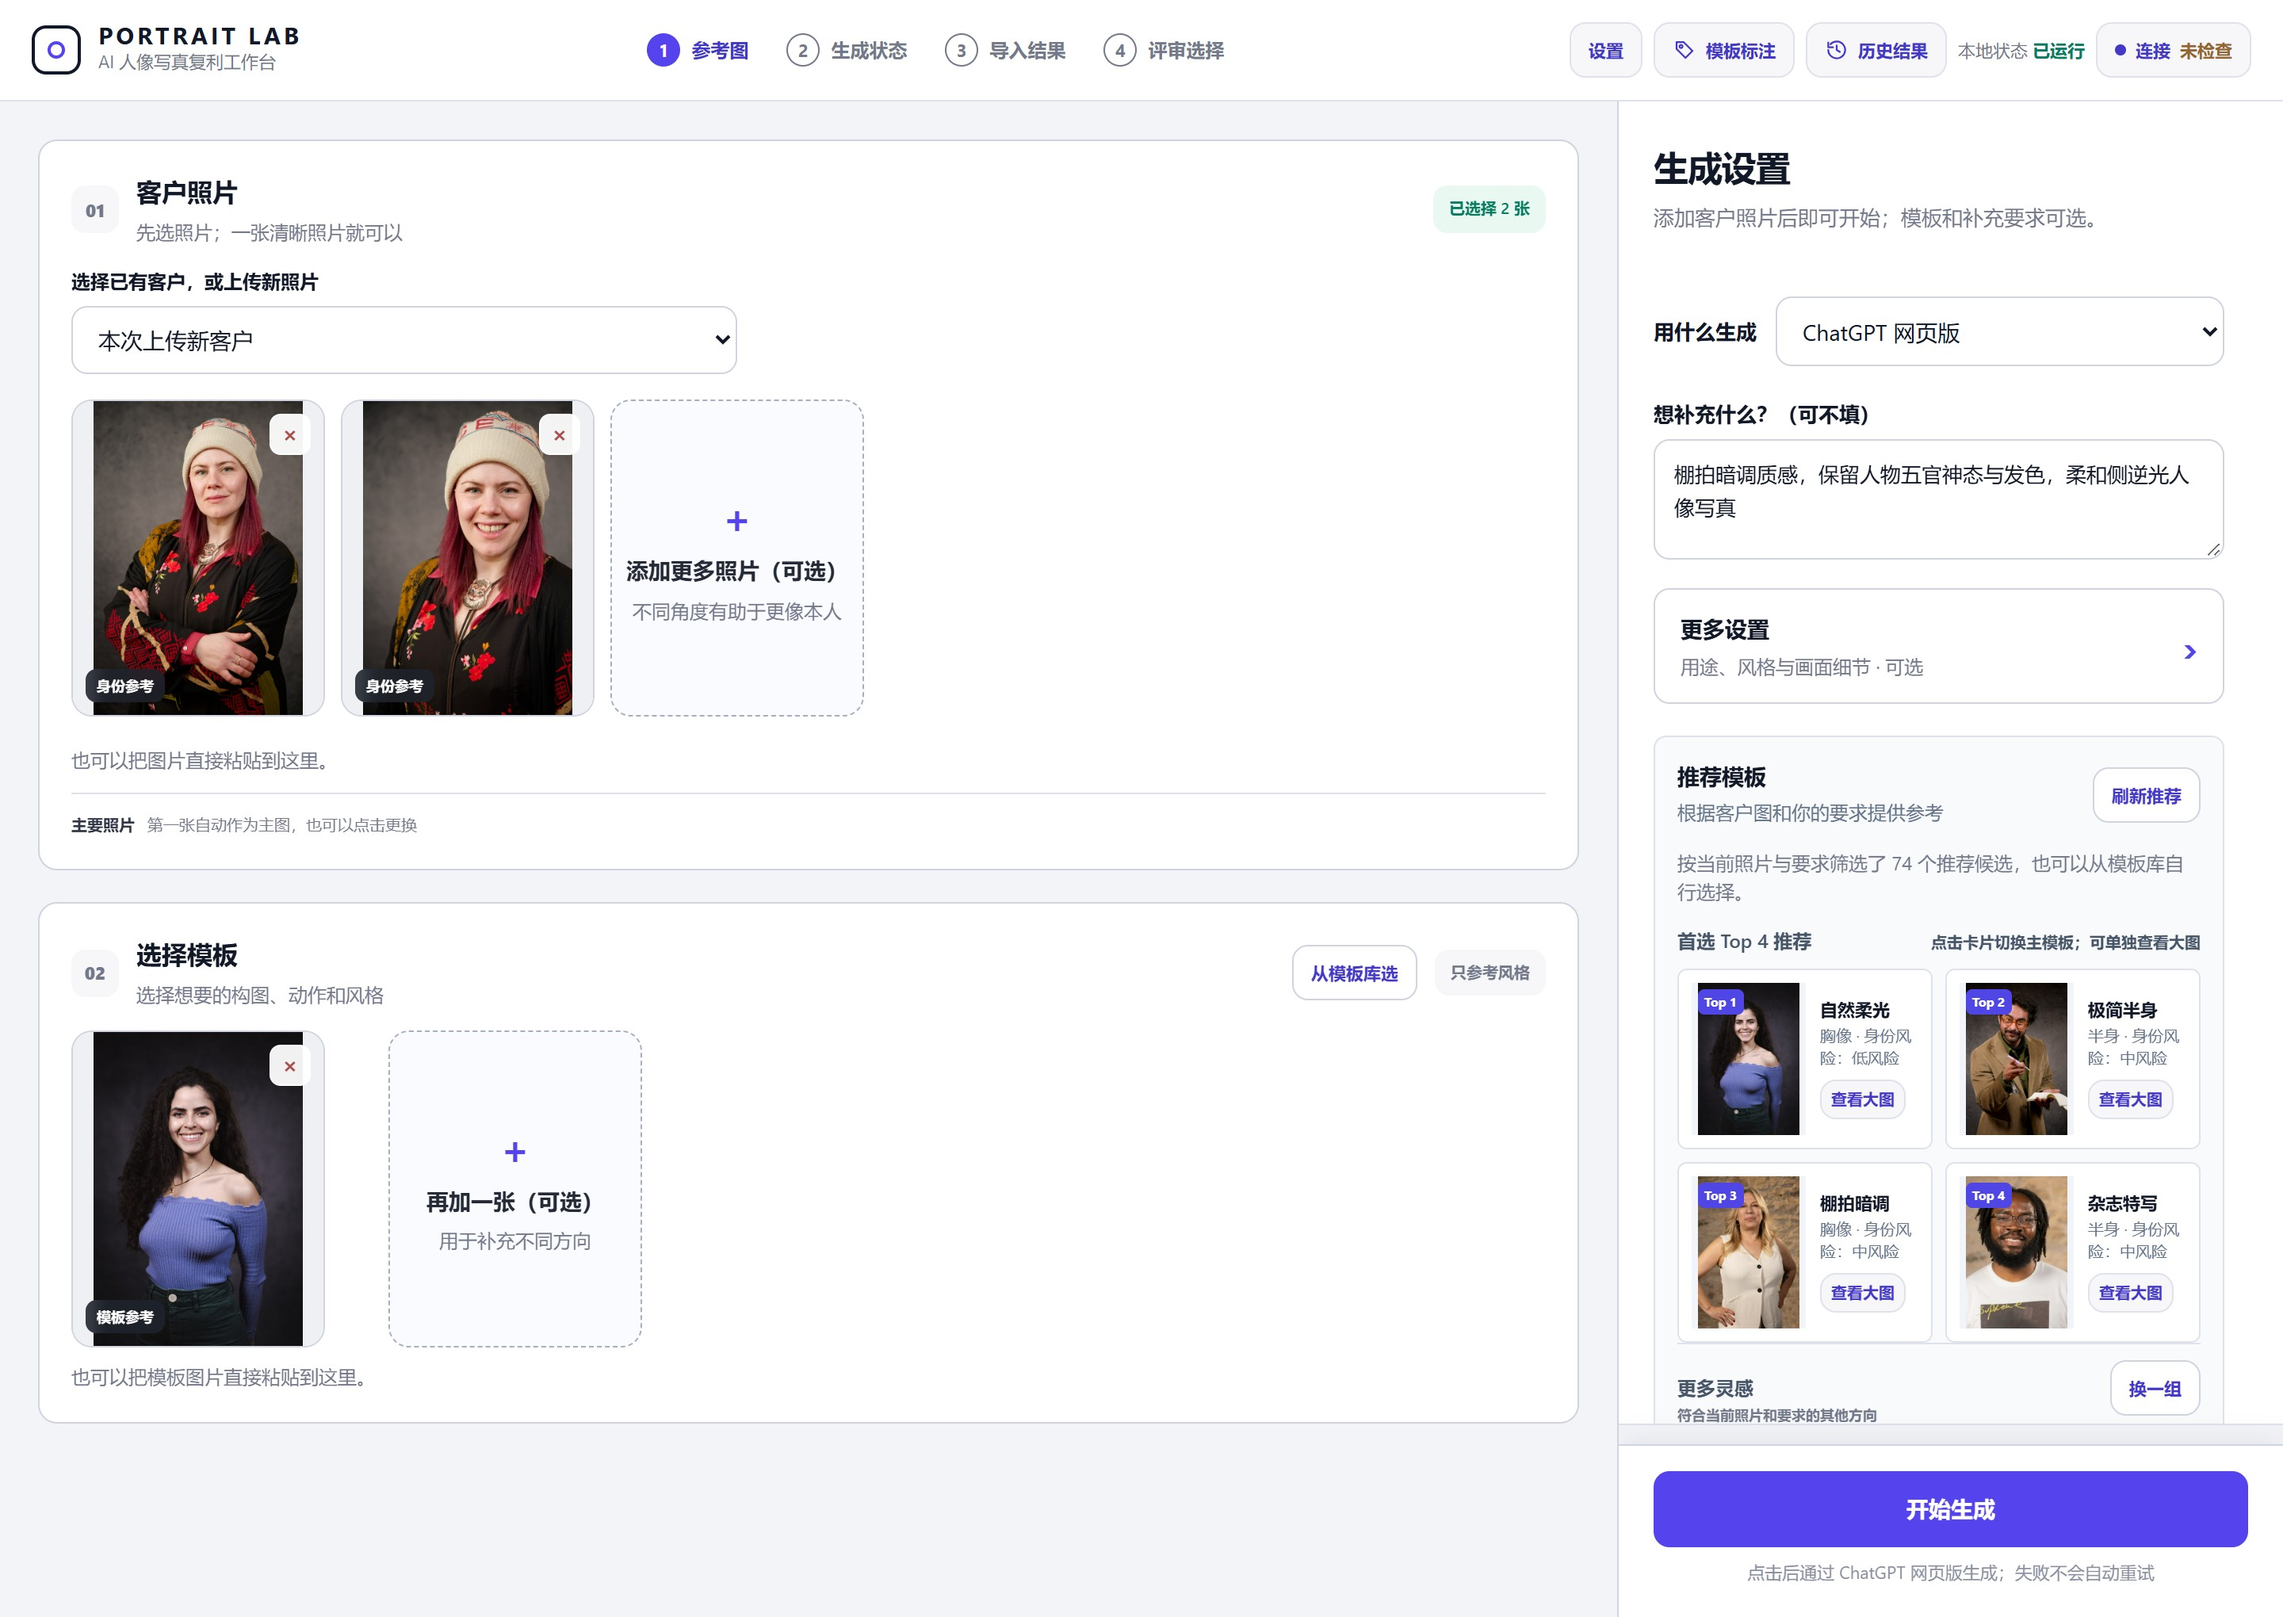
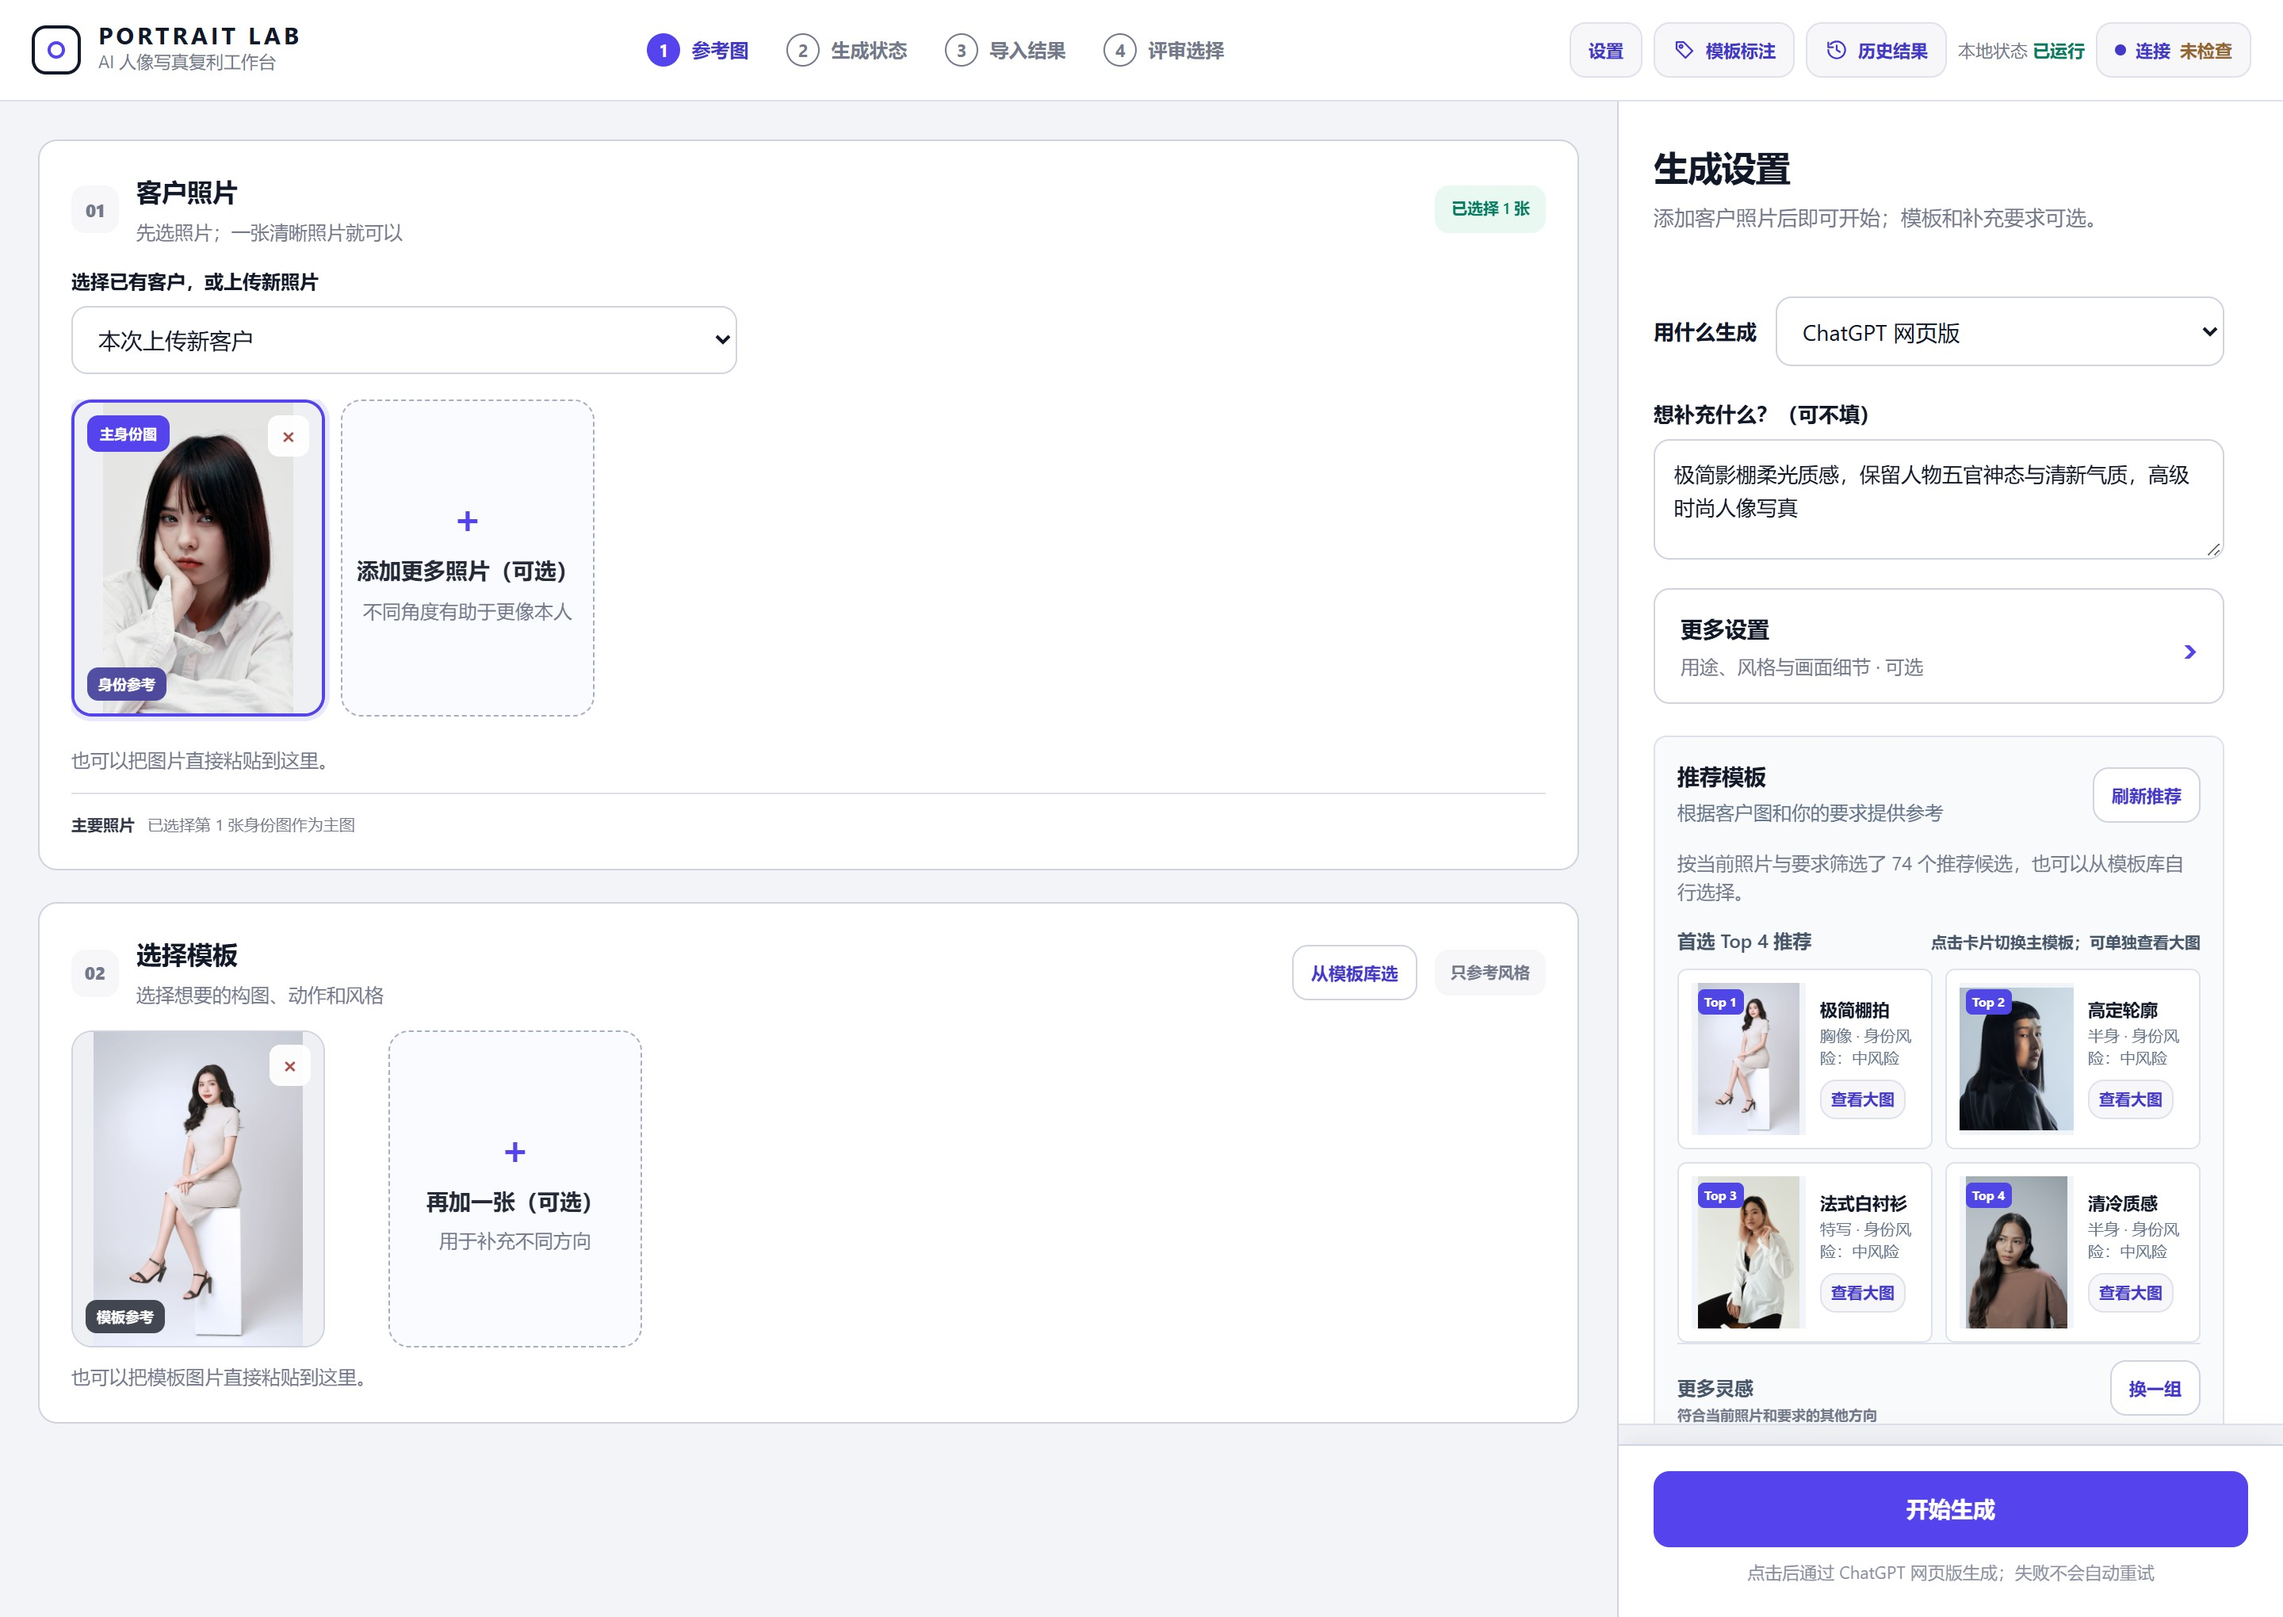
Update demo screenshots with Pexels public Asian studio portraits

diff --git a/docs/VALIDATION.md b/docs/VALIDATION.md
@@ -18,7 +18,7 @@
 
 ## 私人数据范围
 
-本机 `data/`、`.runtime/`、`outputs/`、`references/`、历史截图、账号令牌与工作区版本历史不进入仓库。模板选择参数夹具和评分规则不是人物样本。文档截图来自隔离临时工作区，演示素材采用 Wikimedia Commons 公开授权写真（WikiPortraits Studio 2025，CC BY-SA 4.0），不包含任何私人或客户照片。
+本机 `data/`、`.runtime/`、`outputs/`、`references/`、历史截图、账号令牌与工作区版本历史不进入仓库。模板选择参数夹具和评分规则不是人物样本。文档截图来自隔离临时工作区，演示素材采用 Pexels 公开授权人像摄影作品（Pexels License，ID: 20304296 / 26953111 / 7870734 / 7752451 / 9604193），不包含任何私人或客户照片。
 
 ## 当前边界
 

diff --git a/THIRD_PARTY_NOTICES.md b/THIRD_PARTY_NOTICES.md
@@ -10,4 +10,4 @@
 
 ## 文档截图公开素材署名
 
-docs/workbench.jpg 与 docs/results-capture.jpg 界面截图中展示的演示人像来自 Wikimedia Commons WikiPortraits Studio at Sundance 2025 / SXSW 2025 项目（采用 CC BY-SA 4.0 许可发布），仅用于界面布局演示。
+docs/workbench.jpg 与 docs/results-capture.jpg 界面截图中展示的演示人像来自 Pexels 公开授权人像摄影作品（Pexels License，Photo ID: 20304296、26953111、7870734、7752451、9604193），仅用于界面布局演示。
